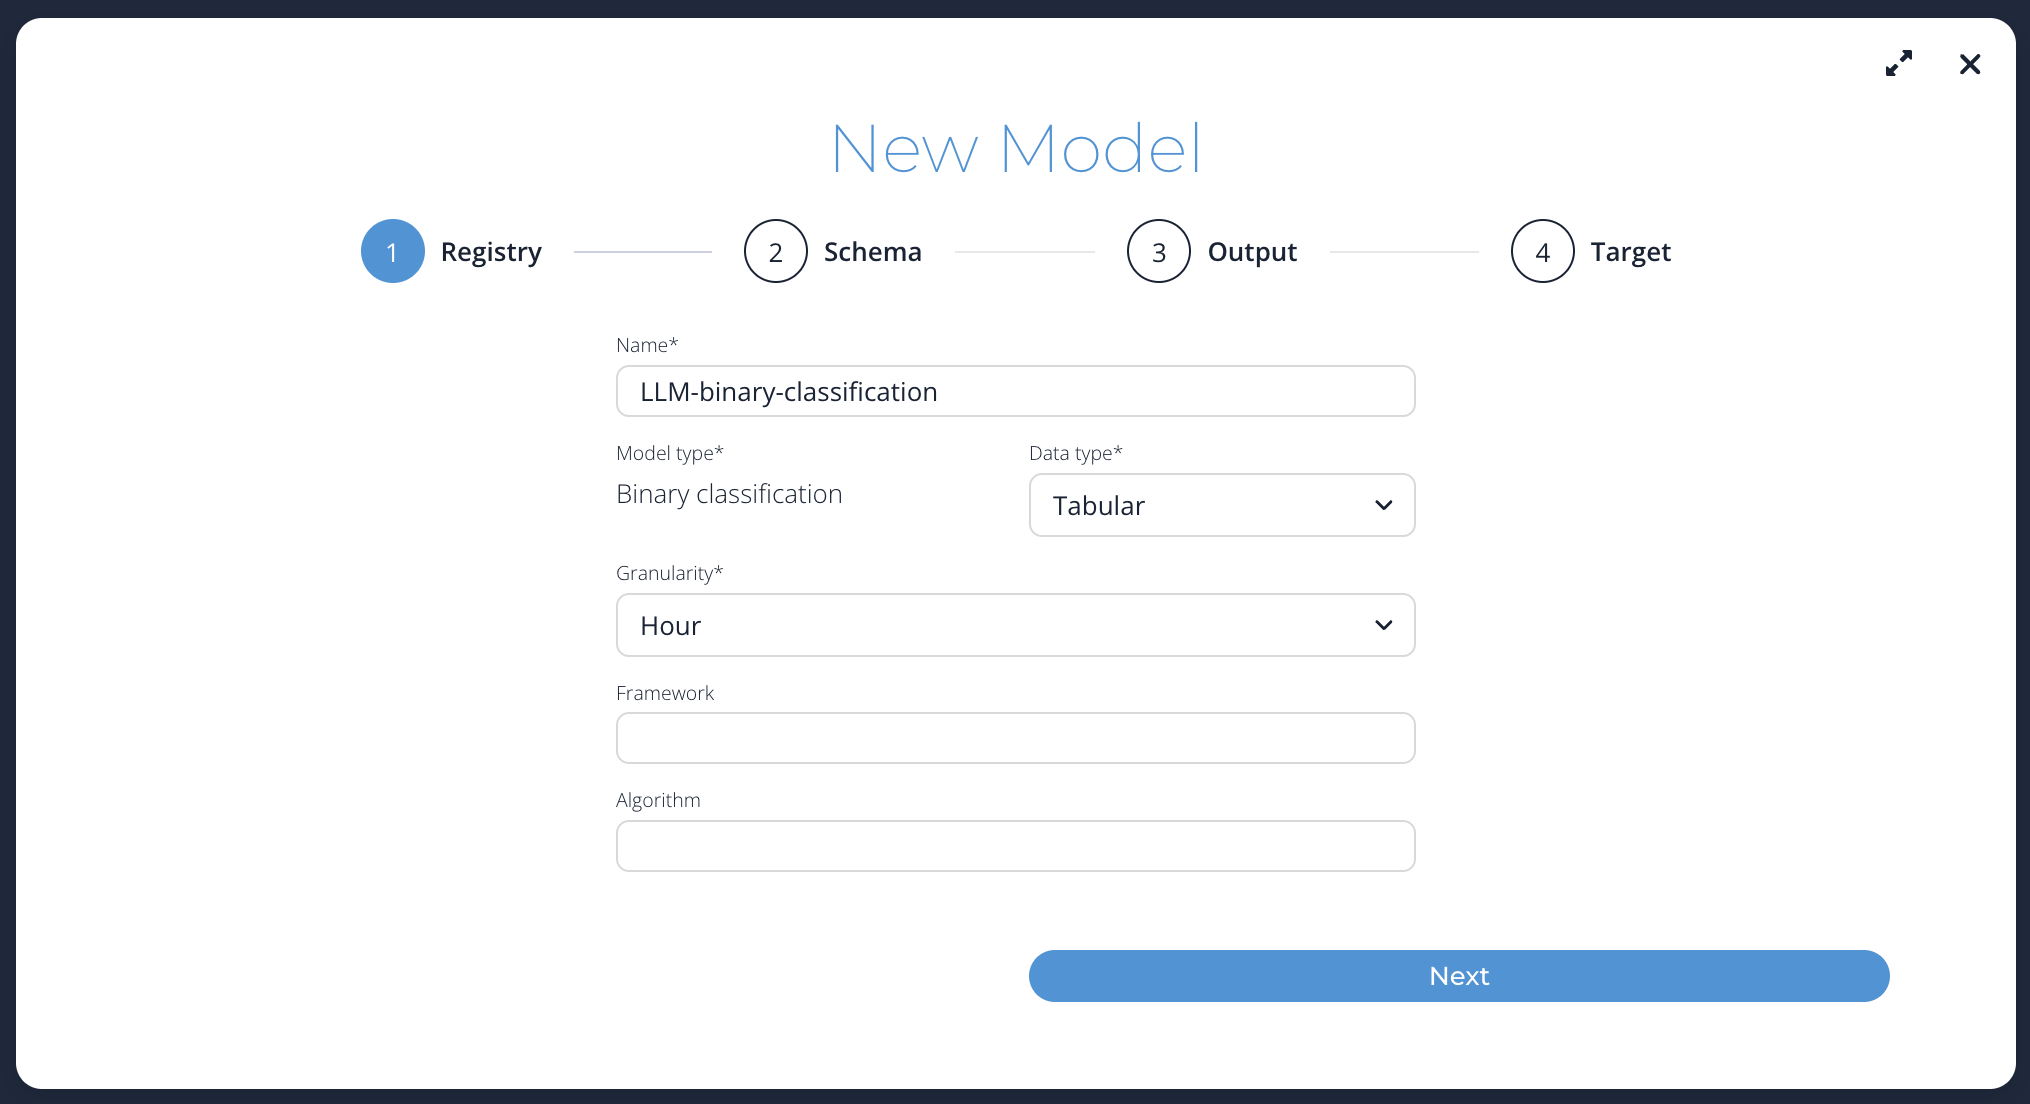
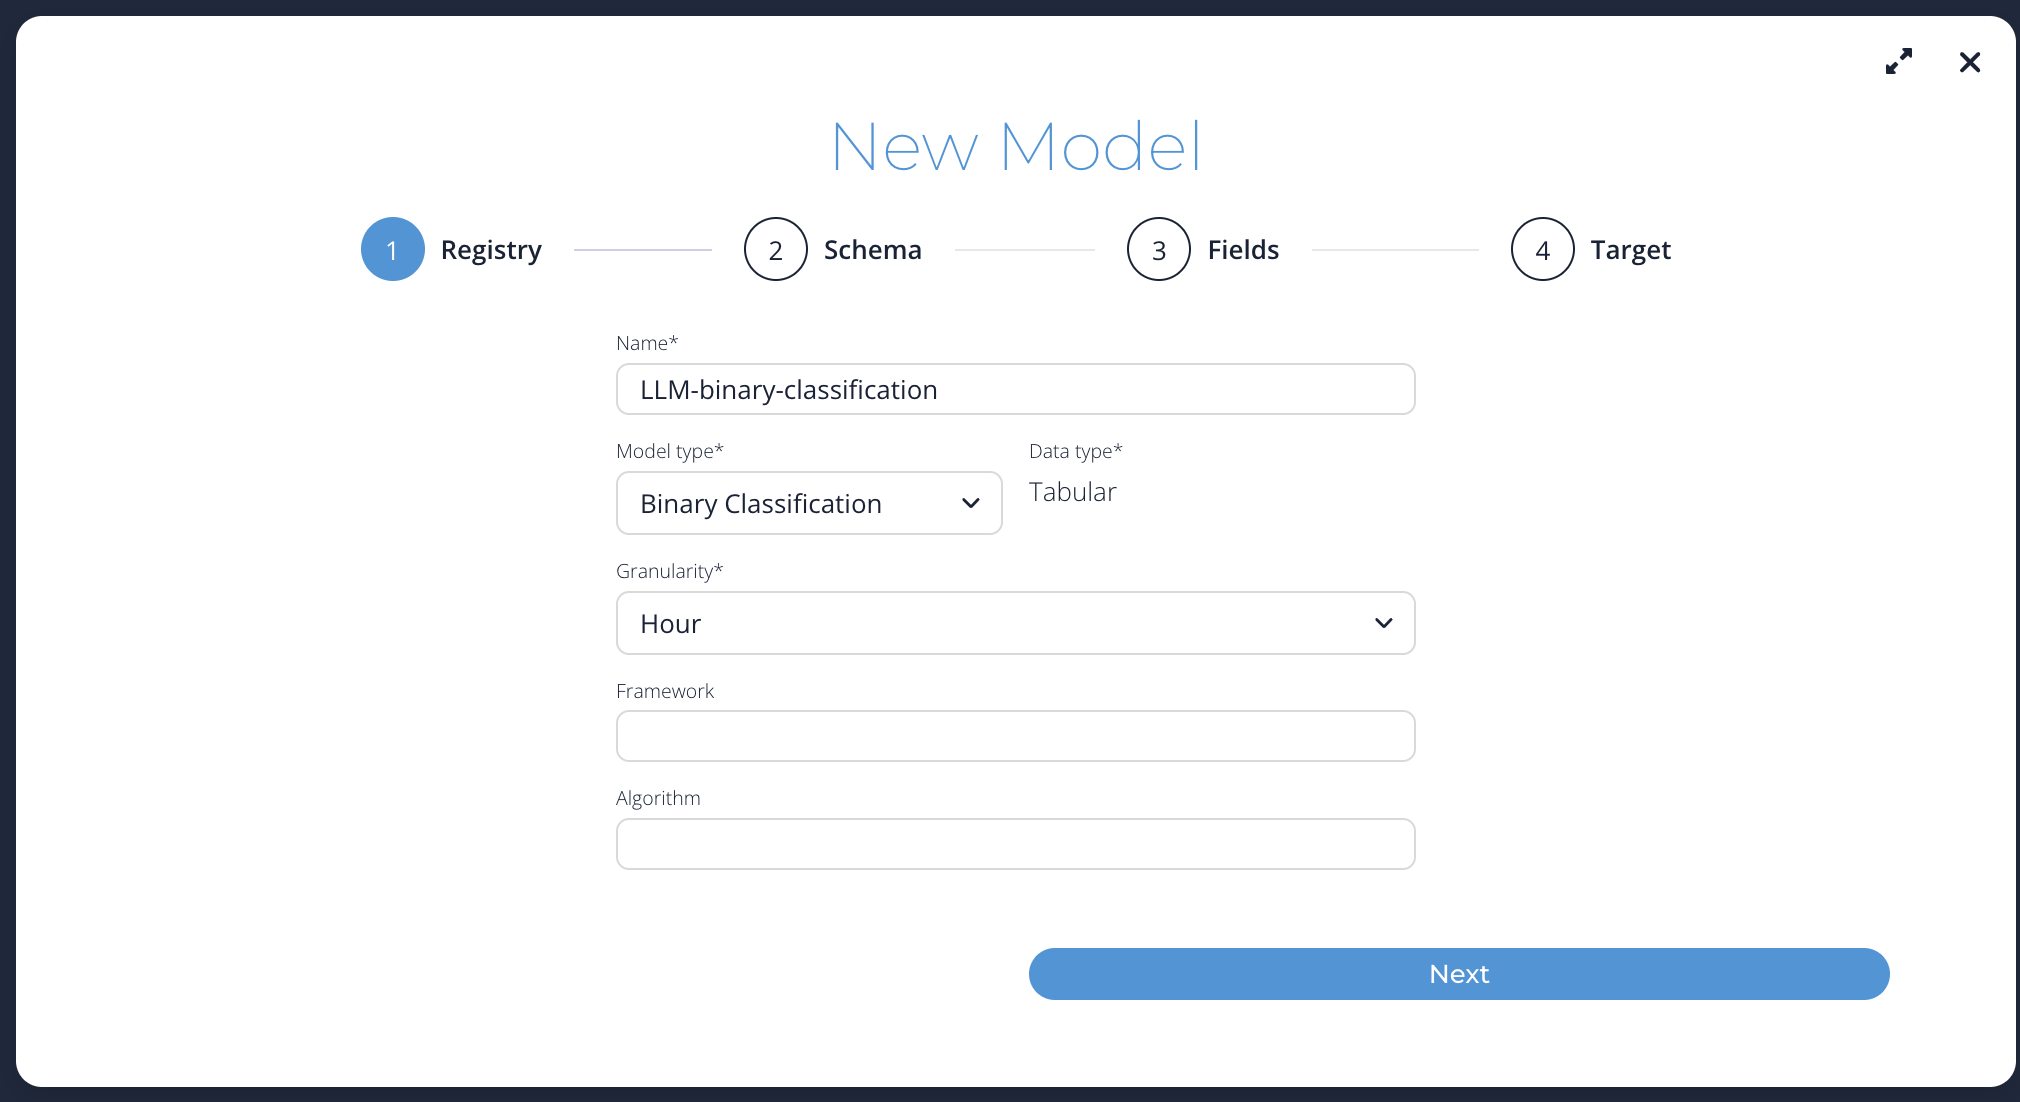
docs: quickstart updated

diff --git a/docs/docs/l2_quickstart.md b/docs/docs/l2_quickstart.md
@@ -1,0 +1,165 @@
+---
+sidebar_position: 1
+---
+
+# Quickstart
+This guide provides instructions on monitoring an AI solution through the Radicalbit AI Platform.
+
+Inside the platform, three models are already included: one binary classificator, one multiclass classificator, and one regressor. If you would like to see how to create them from scratch, see [Radicalbit Platform Python SDK Examples](https://github.com/radicalbit/radicalbit-ai-monitoring/blob/main/docs/quickstarts/README.md): the corresponding notebooks can be found [here](https://github.com/radicalbit/radicalbit-ai-monitoring/tree/main/docs/quickstarts/notebooks).
+
+In this quickstart, we are going to use the GUI to create a binary classificator for monitoring an LLM.
+
+## Monitor an LLM for a Binary Classification
+The use case we present here involves the usage of an LLM (powered with RAG) capable of generating an answer to the user's questions in a chatbot for banking services.
+
+### Introduction
+
+The model returns two different outputs:
+
+1. `model_answer`: the answer generated by retrieving similar information
+1. `prediction`: a boolean value that indicates if the user's question is pertinent to banking topics.
+
+The reason for this information lies in the fact that by discriminating the textual data into categories, the bank will be able to use only the information related to banking services, to fine-tune the model in a second moment and improve its performance.
+
+### Model Creation
+To use the radicalbit-ai-monitoring platform, you need first to prepare your data, which should include the following information:
+
+1. **Features:** The list of variables used by the model to produce the inference. They may include also meta-data (timestamp, log)
+2. **Outputs:** The fields returned by the model after the inference. Usually, they are probabilities, a predicted class or number in the case of the classic ML, and a generated text in the case of LLMs.
+3. **Target**: the ground truth used to validate predictions and evaluate the model quality
+
+This tutorial involves batch monitoring, including the situation where you have some historical data that you want to compare over time.
+
+The **reference dataset** is the name we use to indicate the batch that contains the information we desire to have constant (or we expect to have) over time. It could be the training set or a chunk of production data where the model has had good performances.
+
+The **current dataset** is the name we use to indicate the batch that contains fresh information, for example, the most recent production data, predictions, or ground truths. We expect that it has the same characteristics (statistical properties) as the reference, which indicates that the model has the performance we expect and there is no drift in the data.
+
+What follows is an example of data we will use in this tutorial:
+
+| timestamp | user_id | question | model_answer | ground_truth | prediction | gender | age | device | days_as_customer |
+|-----------|--------:|:---------|:-------------|-------------:|-----------:|:-------|----:|:-------|-----------------:|
+|2024-01-11 08:08:00|user_24|What documents do I need to open a business account?|You need a valid ID, proof of address, and business registration documents.|1|1|M|44|smartphone|194|
+|2024-01-10 03:08:00|user_27|What are the benefits of a premium account?|The benefits of a premium account include higher interest rates and exclusive customer support.|1|1|F|29|tablet|258|
+2024-01-11 12:22:00|user_56|How can I check my credit score?|You can check your credit score for free through our mobile app.|1|1|F|44|smartphone|51|
+2024-01-10 04:57:00|user_58|Are there any fees for using ATMs?|ATM usage is free of charge at all locations.|1|1|M|50|smartphone|197|
+
+* **timestamp:** it is the time at which the user asks the question;
+* **user_id:** it is the user identification;
+* **question:** it is the question asked by the user to the chatbot;
+* **model_answer:** it is the answer generated by the model;
+* **ground_truth:** it is the real label where 1 stands for an answer related to banking services and 0 stands for a different topic;
+* **prediction:** it is the judgment produced by the model about the topic of the answer;
+* **gender:** it is the user's gender;
+* **age:** it is the user's age;
+* **device:** it is the device used in the current session;
+* **days_as_customer:** it indicates how many days the user is a customer.
+
+### Create the Model
+To create a new model, navigate to the *Models* section and click the plus (+) icon.
+
+![Alt text](/img/quickstart/empty-models-list.png "Empty Models List")
+
+The platform should open a modal to allow users to create a new model.
+
+![Alt text](/img/quickstart/new-model-modal-s1.png "New Model")
+
+This modal prompts you to enter the following details:
+* **Name:** the name of the model;
+* **Model type:** the type of the model;
+* **Data type:** it explains the data type used by the model;
+* **Granularity:** the window used to calculate aggregated metrics;
+* **Framework:** an optional field to describe the frameworks used by the model;
+* **Algorithm:** an optional field to explain the algorithm used by the model.
+
+Please enter the following details and click on the *Next* button:
+* **Name:** `LLM-binary-classification`;
+* **Model type:** `Binary Classification`;
+* **Data type:** `Tabular`;
+* **Granularity:** `Hour`;
+
+To infer the model schema you have to upload a sample dataset. Please download and use [this reference Comma-Separated Values file](/datasets/df_10lines.csv) and click on the *Next* button.
+
+![Alt text](/img/quickstart/new-model-modal-s2.png "Upload CSV file")
+
+Since in the CSV file there might be useless fields, e.g. some uuid which would be pointless to analyse, choose which fields you want to carry over: in the case select all of them, click on the arrow to transfer them, and then click on the *Next* button.
+
+![Alt text](/img/quickstart/new-model-modal-s1_extra.png "Fields transfer")
+
+Once you have defined the model schema, select the output fields from the variables. Choose `model_answer` and `prediction`, move them to the right, and click on the *Next* button.
+
+![Alt text](/img/quickstart/new-model-modal-s3.png "Output fields selection")
+
+Finally, you need to select and associate the following fields:
+* **Target:** the target field or ground truth;
+* **Timestamp:** the field containing the timestamp value;
+* **Prediction:** the actual prediction;
+* **Probability:** the probability score associated with the prediction.
+
+Match the following values to their corresponding fields:
+* **Target:** `ground_truth`;
+* **Timestamp:** `timestamp`;
+* **Prediction:** `prediction`;
+* **Probability:** leave it empty;
+
+![Alt text](/img/quickstart/new-model-modal-s4.png "Identify ground truth (target), timestamp, prediction, and probability fields")
+
+Click the *Save Model* button to finalize model creation.
+
+### Model details
+Entering into the model details, we can see three different main sections:
+
+* **Overview**: this section provides information about the dataset and its schema. You can view a summary, and explore the variables (features and ground truth) and the output fields for your model.
+* **Reference**: the Reference section displays performance metrics calculated on the imported reference data.
+* **Current**: the Current section displays metrics for any user-uploaded data sets you have added in addition to the reference dataset.
+
+### Import Reference Dataset
+To calculate metrics for your reference dataset, [import this CSV file, containing the reference](/datasets/df_reference.csv).
+
+![Alt text](/img/quickstart/import-reference.png "Import Reference")
+
+Once you initiate the process, the platform will run background jobs to calculate the metrics.
+
+After processing, you will be able to see the following information:
+* in the **Overview** section a column names and types summary will appear.
+* in the **Reference** section a statistical summary of your data will be computed.
+
+Within the **Reference** section, you can browse between 3 different tabs:
+* **Data Quality:** This tab contains statistical information and charts of your reference dataset, including the
+number of rows and your data distribution through bar plots (for categorical fields) and histograms (for numerical fields). Additionally, to make comparisons and analysis easier, you can choose the order in which to arrange your charts.
+
+![Alt text](/img/quickstart/reference_data_quality.png "Import Reference")
+
+* **Model Quality:** This tab provides detailed information about model performance, which we can compute since you provide both predictions and ground truths. These metrics (in this tutorial related to a binary classification task) are computed by aggregating the whole reference dataset, offering an overall expression of your model quality for this specific reference.
+
+![Alt text](/img/quickstart/reference_model_quality.png "Import Reference")
+* **Import:**  This tab displays all the useful information about the storage of the reference dataset.
+
+![Alt text](/img/quickstart/reference_import.png "Import Reference")
+
+### Import Current Dataset
+Once your reference data has been imported and all the metrics and information about it are available, you can move to the **Current** section, in which you can import [the CSV file containing your current dataset](/datasets/df_current1.csv).
+
+
+![Alt text](/img/quickstart/import-current.png "Import Current")
+
+This action will unlock all the tools you need to compare metrics between the reference and current files.
+
+In detail, you can browse between 4 tabs:
+
+* **Data Quality:** Here, the same metrics you have in the Reference section will also be computed for the current dataset. All the information will be presented side by side so that you can compare and analyze any differences. Throughout the platform, the blue color stands for the current dataset while the gray stands for the reference dataset, allowing you to easily identify which dataset a specific metric belongs to.
+
+![Alt text](/img/quickstart/current_data_quality.png "Import Reference")
+
+* **Model Quality:** In this tab, you can compare the model performance between the reference and current datasets. In addition to what you see in the reference model quality, here you can track the metric values over time by aggregating them with a specific granularity (the same you have defined in the Model Creation).
+
+![Alt text](/img/quickstart/current_model_quality.png "Import Reference")
+
+* **Model Drift:**  This tab provides information about potential changes in the data distributions, known as drift, which can lead to model degradation. The drift is detected according to the field type: Chi-square test for categorical variables and Two-Samples Kolmogorov-Smirnov test for numerical ones.
+
+![Alt text](/img/quickstart/current_model_drift.png "Import Reference")
+
+* **Import:** Here you can list all the current datasets imported over time and switch among them. By default, the last current dataset will be shown.
+
+![Alt text](/img/quickstart/current_import.png "Import Reference")
+
+
